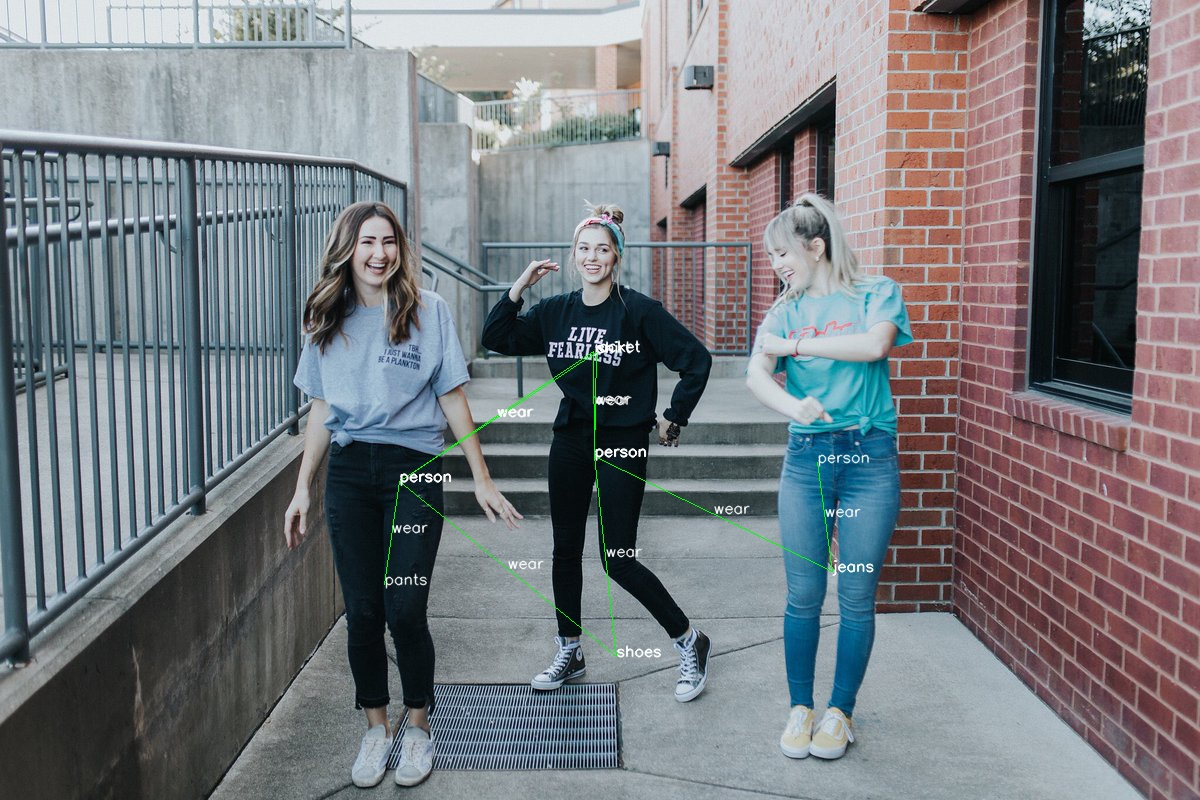
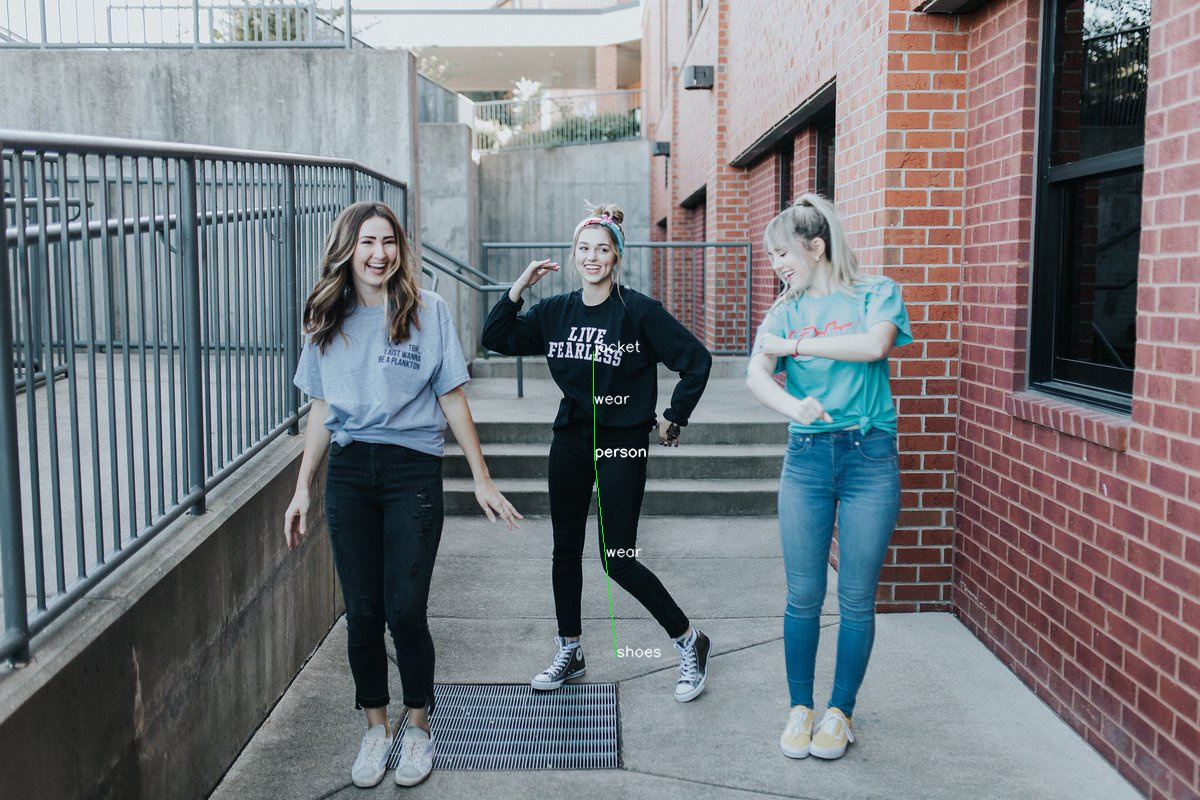
updated

diff --git a/predict.py b/predict.py
@@ -9,6 +9,7 @@ from torchvision import transforms, utils
 import torch.optim as optim
 from torchvision.models import vgg16
 from PIL import Image, ImageFont, ImageDraw
+import torch.nn.functional as F
 from dataset import VrdDataset
 import json
 import torch.nn as nn
@@ -154,8 +155,8 @@ def main():
 
 			with torch.no_grad():
 				confidences, predicates = model(imgs, spatial_locations, word_vectors)
-			confidences = torch.sigmoid(confidences)
-			predicates = torch.sigmoid(predicates)
+			confidences = F.softmax(confidences, dim=1)
+			predicates = F.softmax(predicates, dim=1)
 
 			print("confidences")
 			print(confidences.t())
@@ -169,7 +170,7 @@ def main():
 
 			# apply mask for thresholding
 			# mask = scores > 0.2
-			mask = scores > 0.5
+			mask = scores > 0.7
 			preds = preds[mask]
 			scores = scores[mask]
 
